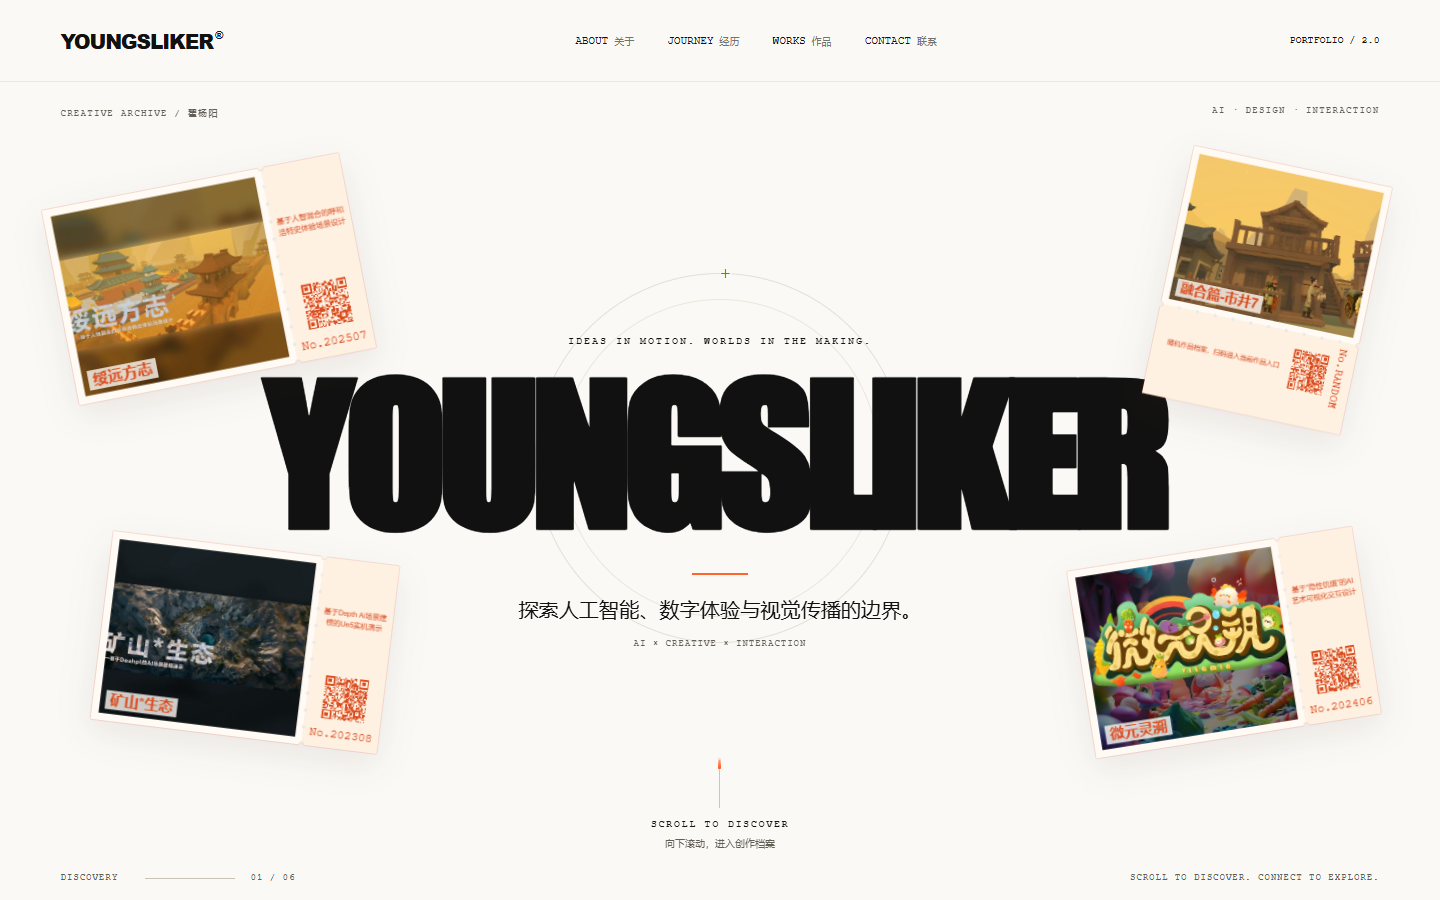
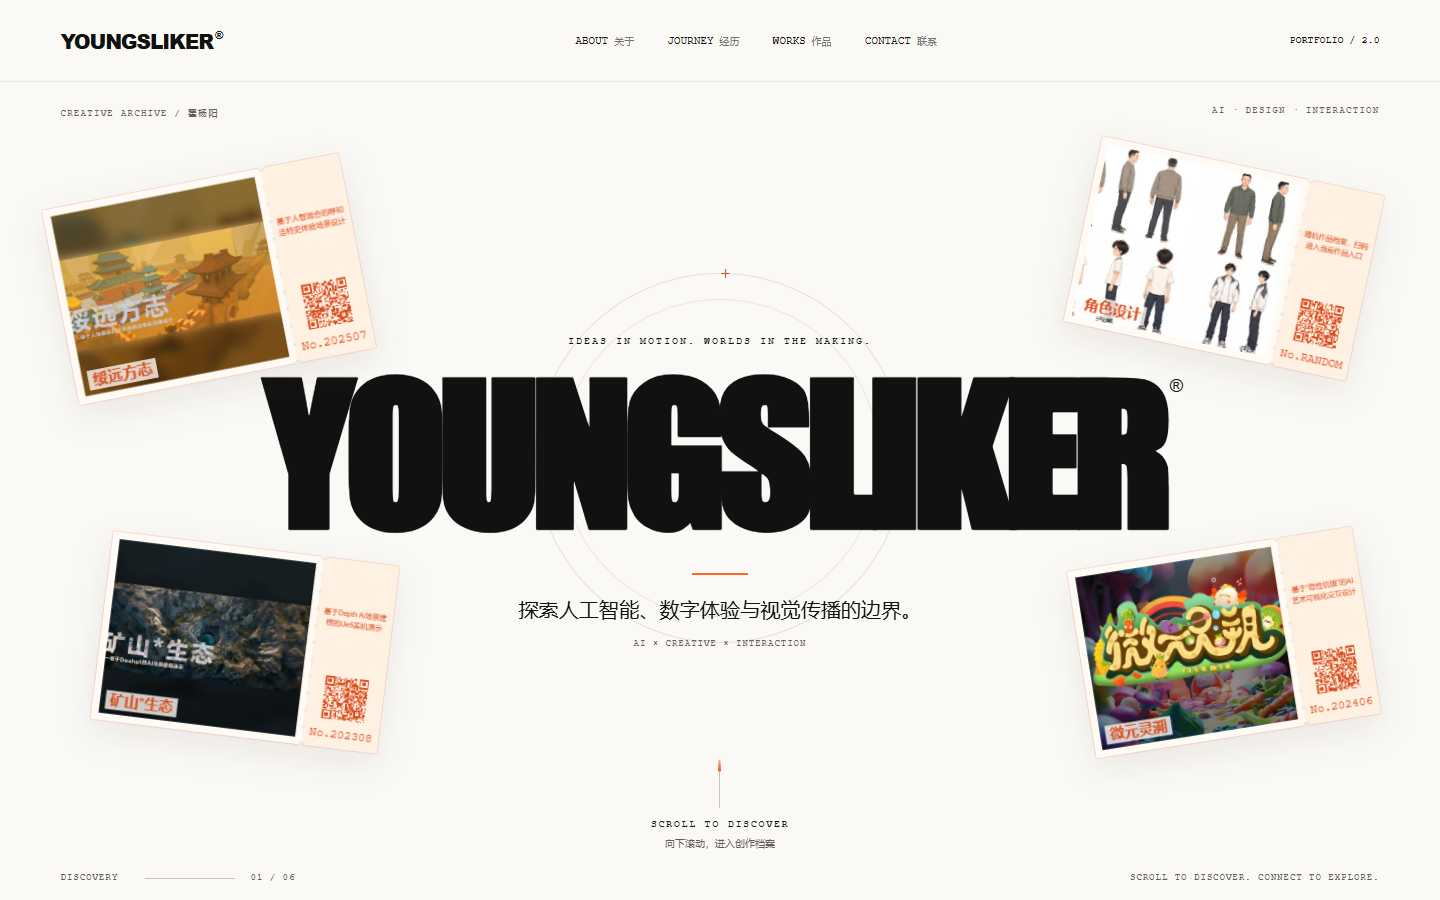
new小票➡

Changed region(s): [[0.75, 0.1556, 0.9688, 0.4667], [0.7812, 0.4044, 0.8125, 0.4356]]

diff --git a/New/css/hero.css b/New/css/hero.css
@@ -11,7 +11,7 @@
 .hero-card { margin: 0; position: absolute; width: 21%; max-width: 320px; z-index: 3; will-change: transform,opacity; }
 .hero-card:focus-within, .hero-card:hover { z-index: 7; }
 .hero-card--1 { left: 4%; top: 12%; transform: rotate(-11deg); }
-.hero-card--2 { right: 5%; top: 10%; width: 14%; transform: rotate(12deg); }
+.hero-card--2 { right: 5%; top: 10%; width: 20%; transform: rotate(12deg); }
 .hero-card--3 { left: 7%; top: 57%; width: 20%; transform: rotate(7deg); }
 .hero-card--4 { right: 5%; top: 57%; width: 20%; transform: rotate(-9deg); }
 .hero-description { position: absolute; top: 60%; left: 27%; right: 27%; text-align: center; z-index: 4; }
@@ -44,7 +44,7 @@
   .hero-orbit { width:230px; height:230px; left:calc(50% - 115px); top:calc(40% - 115px); }
   .hero-card { width:32%; }
   .hero-card--1 { top:9%; left:5%; transform:rotate(-10deg); }
-  .hero-card--2 { top:9%; right:7%; width:24%; transform:rotate(10deg); }
+  .hero-card--2 { top:9%; right:7%; width:30%; transform:rotate(10deg); }
   .hero-card--3 { top:65%; left:3%; width:30%; }
   .hero-card--4 { top:65%; right:3%; width:30%; }
   .hero-description { top:53%; left:18%; right:18%; }

diff --git a/New/js/components/Hero.tsx b/New/js/components/Hero.tsx
@@ -35,7 +35,7 @@ export function Hero() {
         <div className={`hero-card hero-card--${index+1}`} key={artwork.id}>
           <ArtworkTicket title={artwork.title} description={artwork.description} date={artwork.date}
             image={artwork.image} qrValue={`${location.origin}${import.meta.env.BASE_URL}#work=${artwork.id}`}
-            width={index === 1 ? 240 : 320} height={index === 1 ? 300 : 210} />
+            width={320} height={210} />
         </div>)}</div>
       <div className="hero-description"><span className="hero-rule" /><p>探索人工智能、数字体验<br className="mobile-break" />与视觉传播的边界。</p><span>AI × CREATIVE × INTERACTION</span></div>
       <div className="hero-bridge" aria-hidden="true"><span>BEYOND A SINGLE MEDIUM</span><p>在 AI、设计与交互的<br /><em>交汇处。</em></p><span>继续向下，认识创作者 ↓</span></div>

diff --git a/New/js/tests/ticket.spec.ts b/New/js/tests/ticket.spec.ts
@@ -11,7 +11,7 @@ for (const viewport of [{width:1440,height:900}, {width:375,height:667}]) {
     await expect(page.locator('.artwork-ticket__stub')).toHaveCount(4);
     for (let i=0;i<4;i++) {
       const ticket=tickets.nth(i);
-      await expect(ticket).toHaveAttribute('data-orientation',i===1?'vertical':'horizontal');
+      await expect(ticket).toHaveAttribute('data-orientation','horizontal');
       await expect(ticket).toHaveCSS('color','rgb(217, 74, 28)');
       await expect(ticket.locator('.tear-ticket__image')).toBeVisible();
       await expect(ticket.locator('.artwork-ticket__qr')).toBeVisible();
